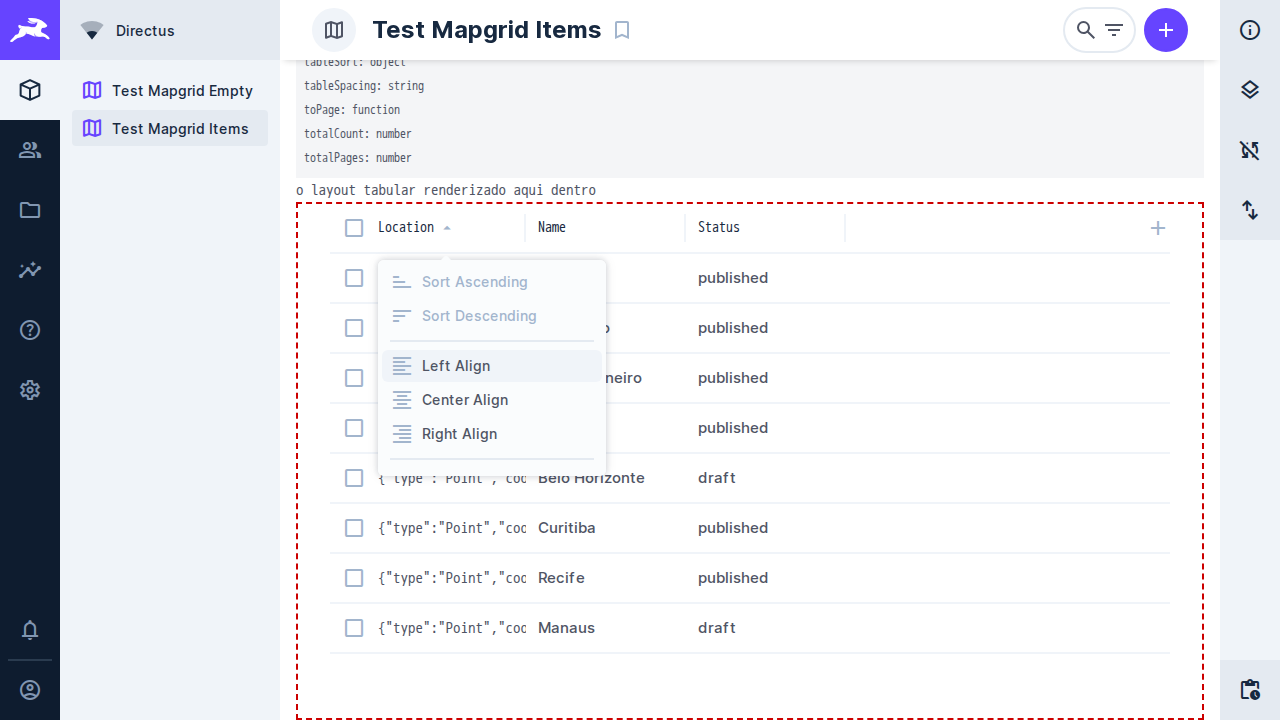
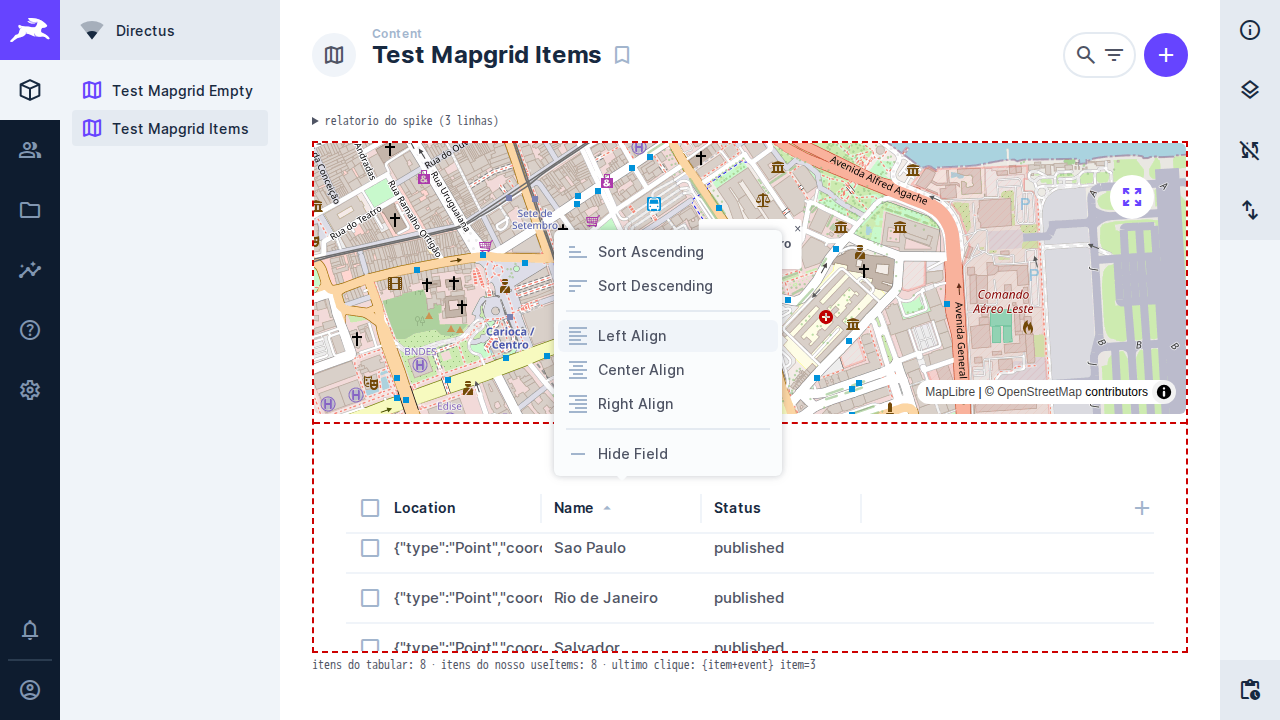
docs(task-008): registra a v2 do spike, com o mapa e o tabular juntos
A v1 respondeu "da para embutir" e deixou de fora o que mais importava. A v2
mediu os dois na mesma tela, e o veredito muda: o risco que mais pesava contra
a ideia cai.

Trocando o `onRowClick` do `layoutState` pelo nosso, o clique na linha para de
navegar para o item e passa a enquadrar o marcador — a captura nova mostra a
grade do Directus levando o nosso mapa ao Rio, com a URL intacta. O mapa tambem
se alimenta dos itens que o proprio tabular buscou.

O que nao muda: persistir alinhamento e largura continua dependendo da task-009,
porque so `selection`, `layoutOptions` e `layoutQuery` sobem como emit e essas
duas moram em `layoutOptions`. Adotar o tabular nao substitui aquela task — ela
vira pre-requisito.

Ficam registrados os dois custos que a v2 tornou visiveis: o tratamento de
campos sem display, hoje no `ValueCell`, e uma folga no topo da grade.

A captura do relatorio saiu: o texto ja lista o que ela mostrava, e o menu velho
deu lugar ao da v2, que aparece inteiro numa coluna ordenavel.

Changed region(s): [[0.2188, 0.0306, 0.9375, 0.9472], [0.8125, 0.0, 0.9375, 0.1222], [0.5312, 0.6417, 0.5938, 0.6722]]

diff --git a/TASKS/task-008-a-grade-se-comporta-como-a-do-directus.md b/TASKS/task-008-a-grade-se-comporta-como-a-do-directus.md
@@ -181,31 +181,57 @@ nem exporta `useLayout`, e o layout tabular não existe fora do app do Directus.
 - A coluna de geometria sai como JSON cru: o tabular usa os displays do Directus,
   e o tratamento que o nosso `ValueCell` dá a campos sem display se perderia.
 
+### v2 — o tabular e o mapa na mesma tela
+
+A v1 respondeu "dá para embutir" e deixou de fora o que mais importava: os dois
+juntos. A v2 (`7666f2e`) mediu isso, e o que ela achou muda o veredito.
+
+**O clique na linha deixa de navegar.** Trocando o `onRowClick` do `layoutState`
+pelo nosso, o payload chega como `{item, event}` e o mapa enquadra o item:
+`navegou para o item? false`. Era o risco que eu tinha apontado como capaz de
+afundar a ideia — e ele cai.
+
+**O mapa vive dos itens que o próprio tabular buscou.** Ressalva: o `useItems` do
+nosso `setup()` continua rodando no spike, então ali ainda há dois fetches. O que
+está provado é que o mapa não precisa do nosso, não que já o removemos.
+
+**O tabular aguenta meia tela**, com o mapa em cima. Sobra uma folga no topo da
+grade, chrome dele esperando mais espaço — cosmético, mas é a ponta solta.
+
 ### O que ele desenhou
 
 Capturas do spike rodando, não do produto — o `dist` aqui é o do branch, em que o
-`component:` aponta para o spike. Em todas, o tracejado vermelho é a borda do
-spike: o que está dentro dela é o layout tabular do Directus.
+`component:` aponta para o spike. O tracejado vermelho é a borda do spike: dentro
+dela, o layout tabular do Directus.
 
-| O menu de contexto dele | A grade embutida |
+![O clique na linha levando o mapa ao item](assets/task-008-spike-clique.png)
+
+A decisiva: clicar na linha "Rio de Janeiro" da grade **do Directus** levou o
+**nosso** mapa até lá, com o popup aberto, e a URL não mudou.
+
+| Os dois dividindo a tela | O menu de contexto, inteiro |
 | --- | --- |
-| ![Menu](assets/task-008-spike-menu.png) | ![Grade](assets/task-008-spike-grade.png) |
+| ![Tela dividida](assets/task-008-spike-split.png) | ![Menu](assets/task-008-spike-menu.png) |
 
-No menu aparecem "Sort Ascending/Descending" e "Left/Center/Right Align" — as
-duas de ordenação esmaecidas porque a coluna clicada foi `Location`, que é
-geometria e não ordena. Na grade se vê o outro lado da moeda: `Location` sai como
-JSON cru, sem o tratamento que o nosso `ValueCell` dá.
+O menu vem completo numa coluna ordenável: crescente, decrescente, os três
+alinhamentos e ocultar campo — é exatamente o que nos falta hoje.
 
-![A tela inteira, com o relatório](assets/task-008-spike-tela.png)
+![A grade embutida](assets/task-008-spike-grade.png)
 
-A tela inteira mostra o relatório que o spike despeja antes da grade: os exports
-do SDK em runtime, os layouts registrados e as 92 chaves do `layoutState`.
+E o outro lado da moeda: `Location` sai como JSON cru. O tabular usa os displays
+do Directus, então o tratamento que o nosso `ValueCell` dá a campos sem display
+se perderia.
 
 ### Veredito
 
-Viável, e melhor do que parecia — mas **depois da task-009**, não antes: o ganho
-principal é exatamente o que ela desbloqueia. Fica sem medir quanto do visual do
-tabular assume a tela inteira, já que aqui ele divide espaço com o mapa.
+Viável, e agora sem o risco que mais pesava contra. Mas **depois da task-009**,
+não antes: alinhamento e largura passam a existir na interface de graça, só que
+**persistir** continua dependendo dela, porque sobem como emit apenas `selection`,
+`layoutOptions` e `layoutQuery` — e essas duas moram em `layoutOptions`. Adotar o
+tabular não substitui a task-009; ela vira pré-requisito.
+
+O custo a pagar, que a v2 deixou visível: reaver o tratamento de campos sem
+display, hoje no `ValueCell`, e acertar a folga no topo da grade.
 
 ### Como rodar o spike
 
